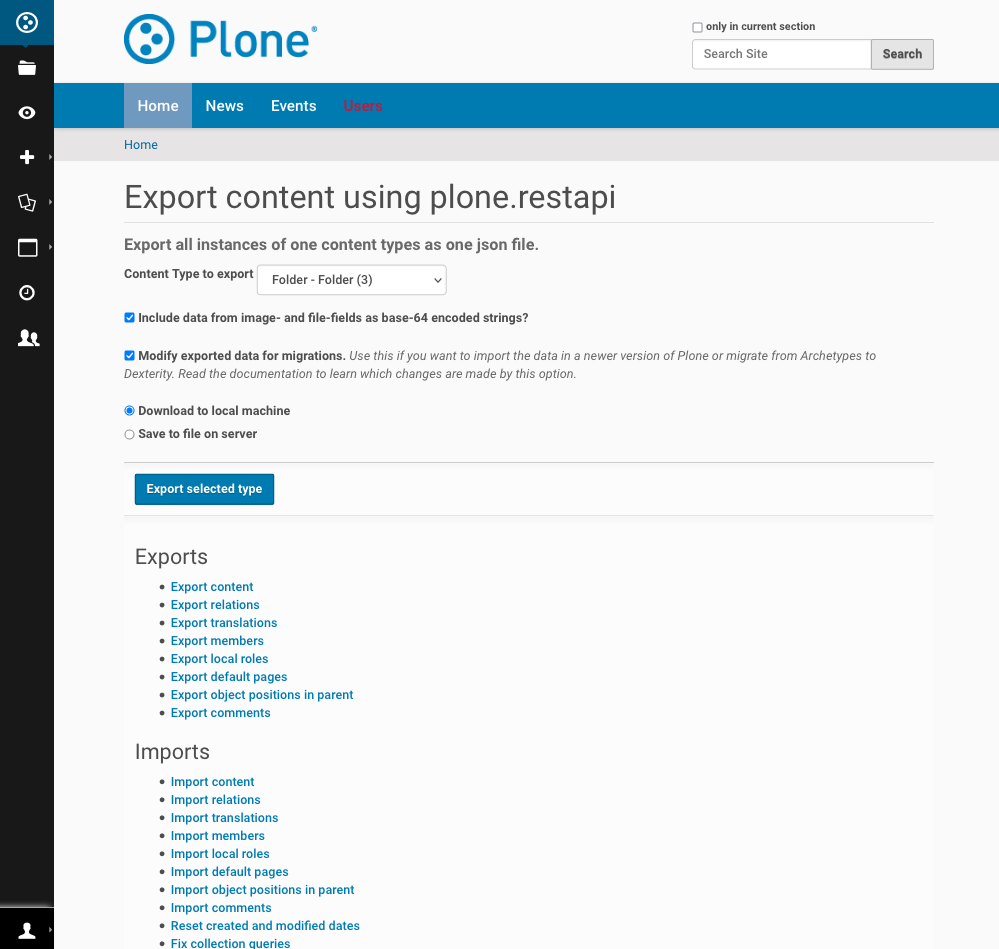
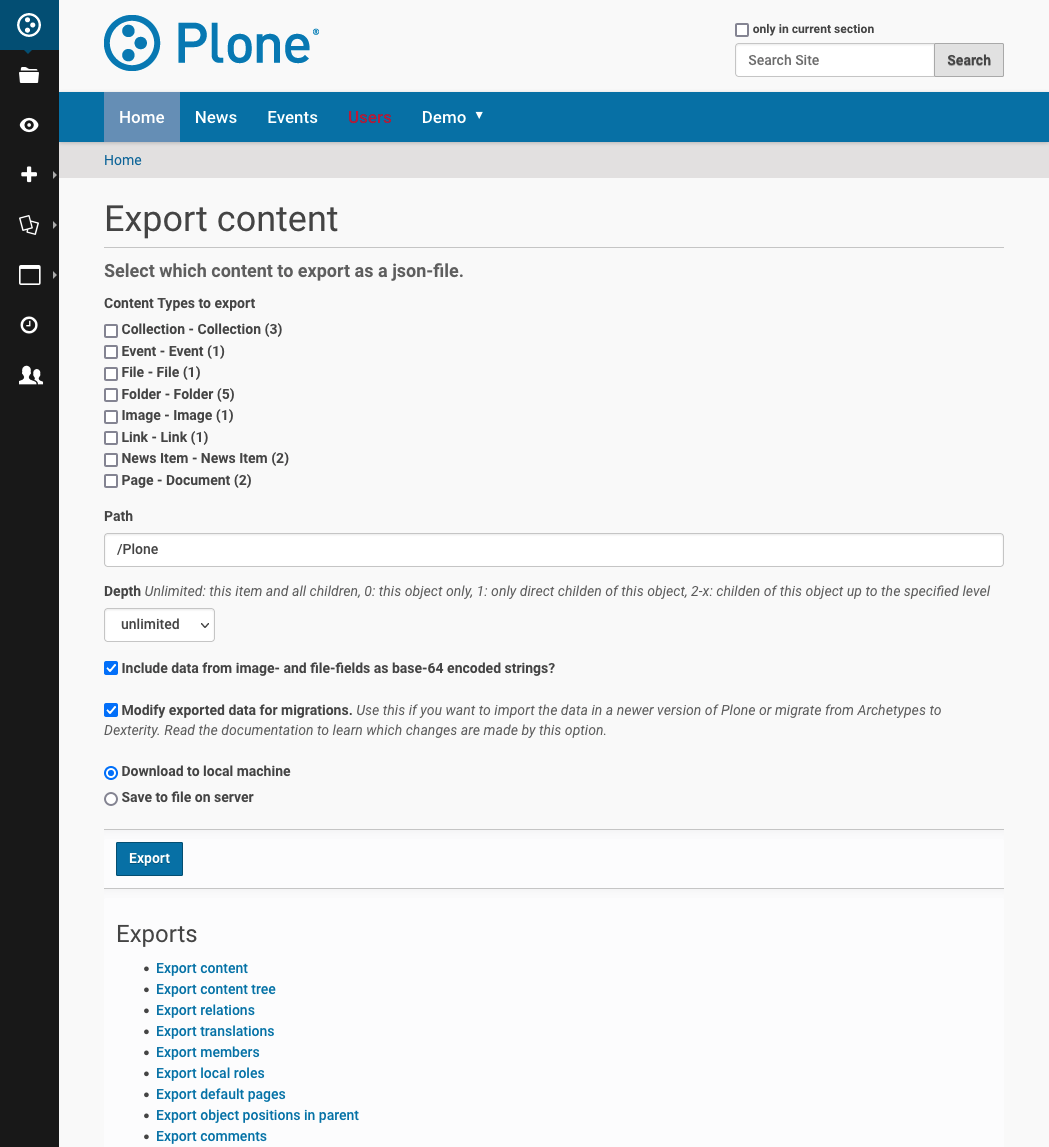
update docs

Changed region(s): [[0.0931, 0.1834, 0.962, 1.0], [0.0, 0.0, 1.0, 0.3667], [0.0, 0.9473, 0.0621, 1.0]]

diff --git a/src/collective/exportimport/import_content.py b/src/collective/exportimport/import_content.py
@@ -56,7 +56,7 @@ class ImportContent(BrowserView):
     # Example: {'which_price': 'normal'}
     DEFAULTS = {}
 
-    def __call__(self, jsonfile=None, portal_type=None, return_json=False, limit=None, server_file=None):
+    def __call__(self, jsonfile=None, return_json=False, limit=None, server_file=None):
         self.limit = limit
         response = self.request.response
 

diff --git a/README.rst b/README.rst
@@ -51,11 +51,13 @@ Usage
 Export
 ------
 
-Use the form with the URL ``/@@export_content``, and select which content type you want to export:
+Use the form with the URL ``/@@export_content``, and select what you want to export:
 
 .. image:: ./docs/export.png
 
-The downloaded json-file will have the name of the selected type, e.g. ``Folder.json``.
+You can export one or more types and a whole site or only a specific path in a site. Since items are exported ordered by path importing them will create the same structure as you had originally.
+
+The downloaded json-file will have the name of the path you exported from, e.g. ``Plone.json``.
 
 The exports for members, relations, localroles and relations are linked to in this form but can also be called individually: ``/@@export_members``, ``/@@export_relations``, ``/@@export_localroles``, ``/@@export_translations``, ``/@@export_ordering``, ``/@@export_discussion``.
 
@@ -218,7 +220,7 @@ Export Example
             '71e3e0a6f06942fea36536fbed0f6c42',
         ]
 
-        def fixup_request(self):
+        def update(self):
             """Use this to override stuff befor ethe export starts
             (e.g. force a specific language in the request)."""
             return
@@ -279,6 +281,12 @@ Import Example
         # Default values for some fields
         DEFAULTS = {'which_price': 'normal'}
 
+        def start(self):
+            """Hook to do something before importing one file."""
+
+        def finish(self):
+            """Hook to do something after importing one file."""
+
         def global_dict_hook(self, item):
             if isinstance(item.get('description', None), dict):
                 item['description'] = item['description']['data']
@@ -327,11 +335,8 @@ It is possible to import data in a setuphandler or upgrade-step:
         request = aq_get(portal, 'REQUEST')
 
         import_content = api.content.get_view('import_content', portal, request)
-        path = Path(os.path.dirname(__file__)) / 'Document.json'
-        import_content(jsonfile=path.read_text(), portal_type=item.stem, return_json=True)
-
-        path = Path(os.path.dirname(__file__)) / 'Event.json'
-        import_content(jsonfile=path.read_text(), portal_type=item.stem, return_json=True)
+        path = Path(os.path.dirname(__file__)) / 'mydata.json'
+        import_content(jsonfile=path.read_text(), return_json=True)
 
         import_translations = api.content.get_view('import_translations', portal, request)
         path = Path(os.path.dirname(__file__)) / 'translations.json'
@@ -367,11 +372,9 @@ Save all content to ``var/instance/``:
     class ExportAll(BrowserView):
 
         def __call__(self):
-            portal_types = api.portal.get_tool('portal_types').keys()
             export_content = api.content.get_view('export_content', self.context, self.request)
             self.request.form['form.submitted'] = True
-            for portal_type in portal_types:
-                export_content(portal_type=portal_type, include_blobs=True, download_to_server=True)
+            export_content(portal_type=['Folder', 'Document', 'Event'], include_blobs=True, download_to_server=True)
 
 Import all content from ``var/instance/import/``:
 
@@ -390,23 +393,11 @@ Import all content from ``var/instance/import/``:
 
         def __call__(self):
             alsoProvides(self.request, IDisableCSRFProtection)
-            # Start with folderish content!
-            portal_types = [
-                'Folder',
-                'File',
-                'Image',
-                'Document',
-                'News Item',
-                'Event',
-                'Collection',
-                'Link',
-            ]
             instance_path = getConfiguration().clienthome
             import_content = api.content.get_view('import_content', self.context, self.request)
             self.request.form['form.submitted'] = True
-            for portal_type in portal_types:
-                path = Path(instance_path) / 'import' / f'{portal_type}.json'
-                import_content(jsonfile=path.read_text(), portal_type=portal_type, return_json=True)
+            path = Path(instance_path) / 'import/my_data.json'
+            import_content(jsonfile=path.read_text(), return_json=True)
 
 
 Written by
